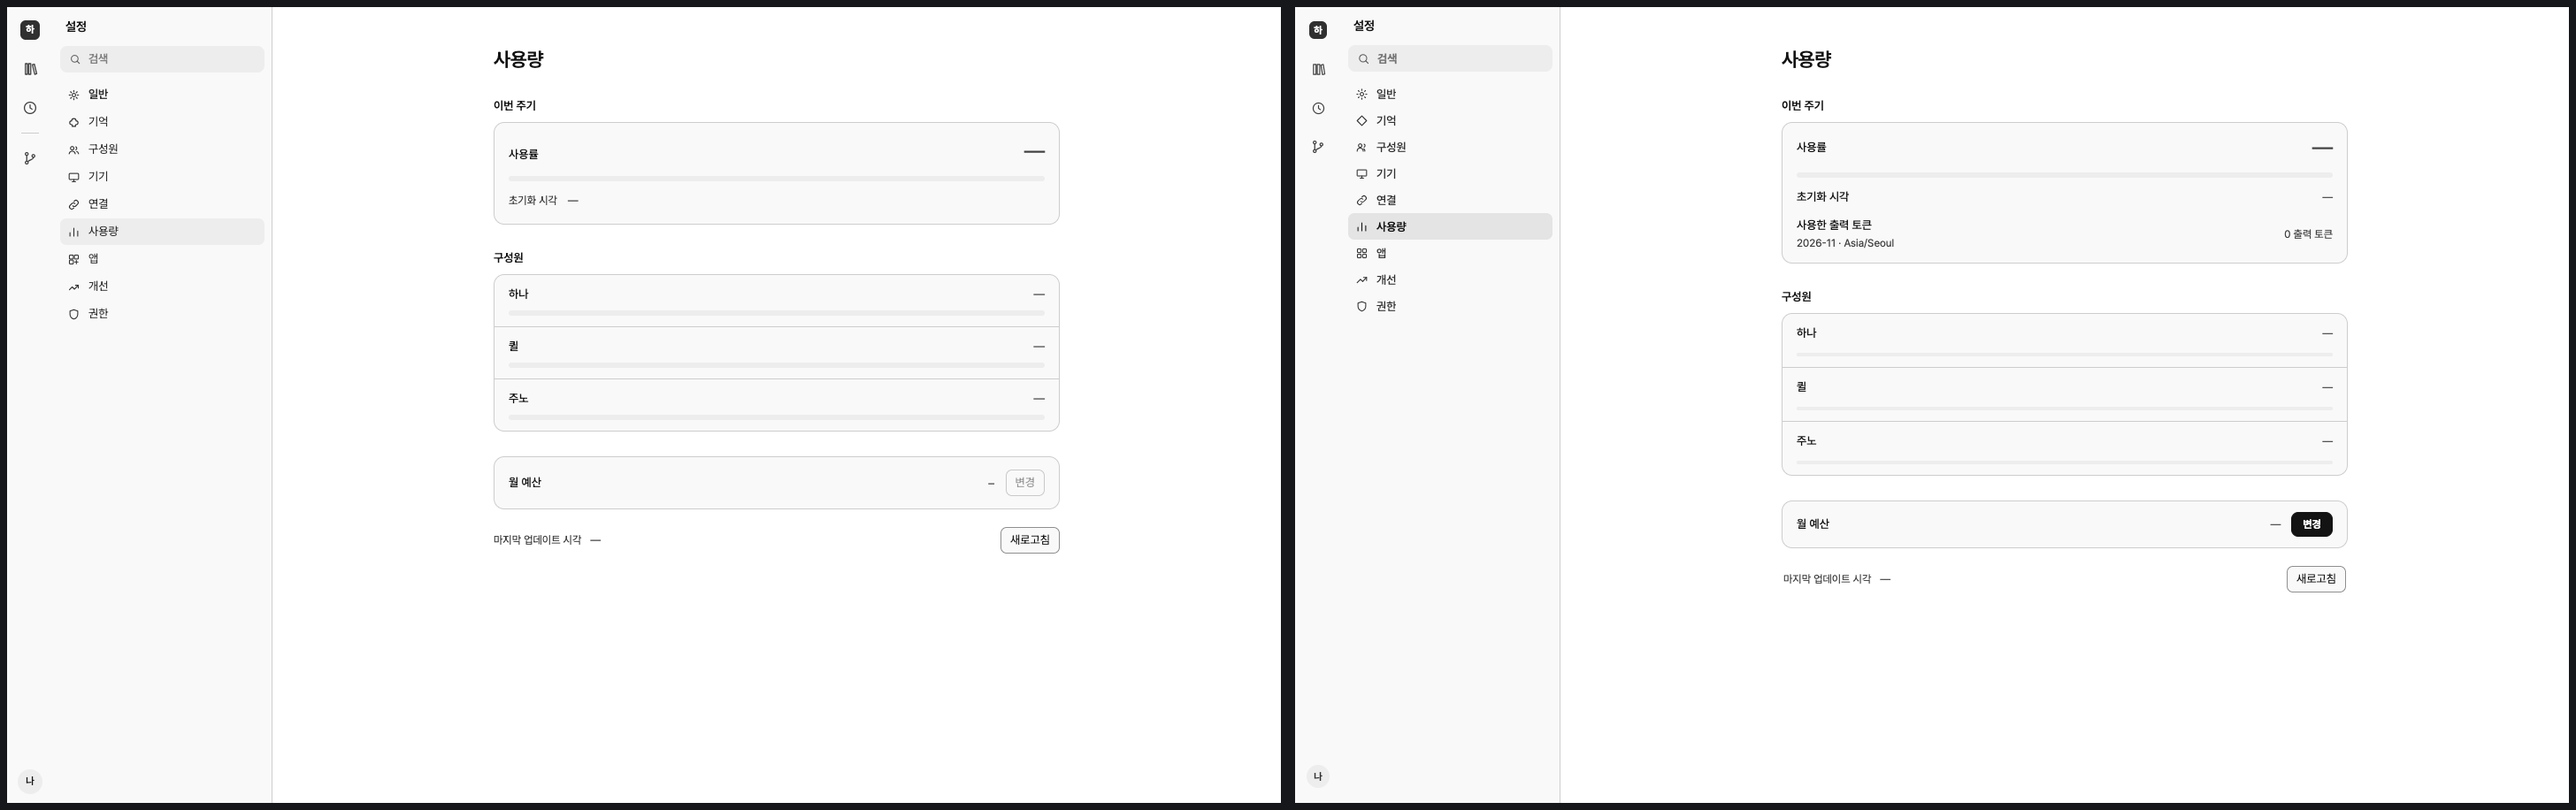
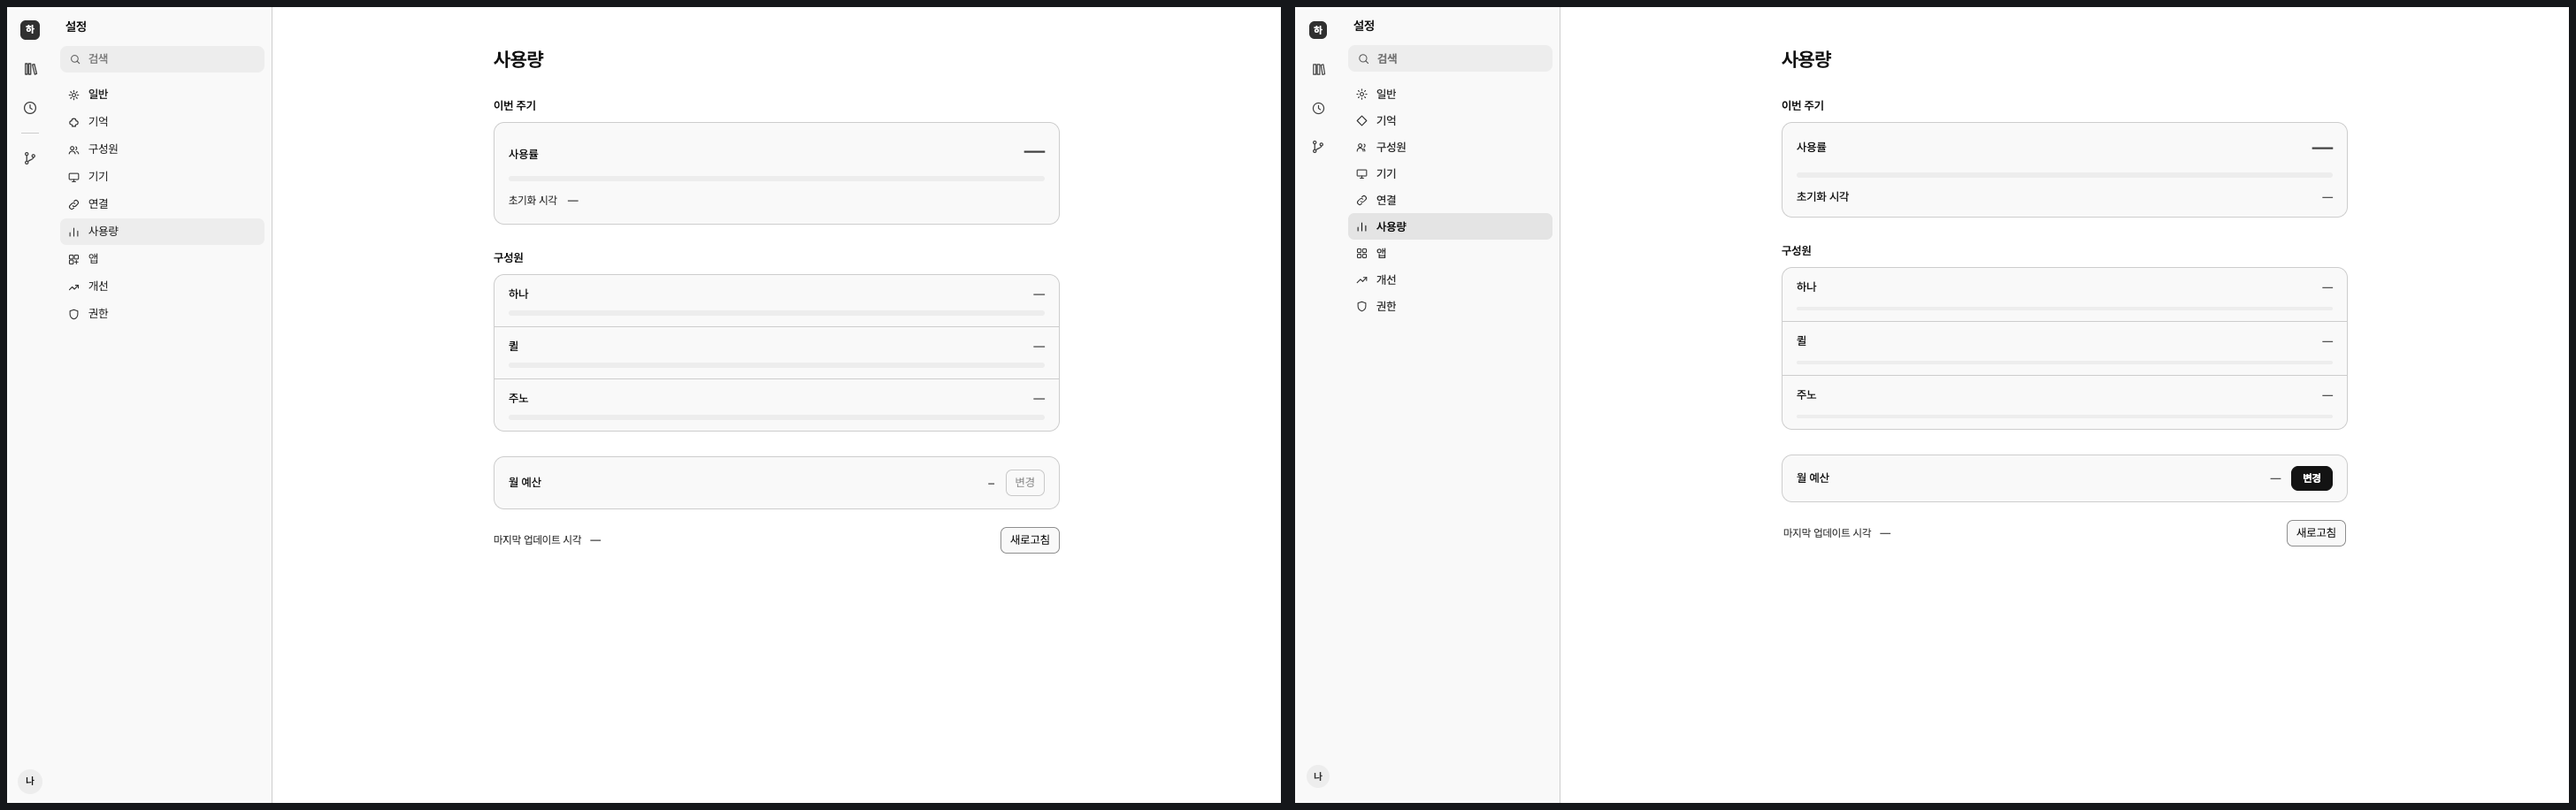
fix(ui): align monthly budget cards with visual contracts

diff --git a/src/settings-panel.ts b/src/settings-panel.ts
@@ -91,7 +91,7 @@ function settingsGeneralView(){
 }
 function settingsUsageView(){
  const v=settingsUsage&&settingsUsage.feedId===(chatView||chatRep)?.feedId?settingsUsage:null,unknown=()=>element('span',copy('ui.settings.unknown-value'),'set-side'),amount=n=>Number.isSafeInteger(n)?copy('ui.budget.tokens',{count:n.toLocaleString('ko-KR')}):copy('ui.settings.unknown-value'),status=label=>{const bar=element('div',undefined,'set-usage-bar');bar.setAttribute('role','status');bar.setAttribute('aria-label',label);return bar;};
- const cycle=element('div',undefined,'set-row set-usage-cycle'),top=settingsRow(copy('ui.budget.utilization'),'',unknown()),reset=settingsRow(copy('ui.budget.reset'),'',unknown());cycle.append(top,status(copy('settings.status.02')),reset);if(v)cycle.append(settingsRow(copy('ui.budget.recorded'),copy('ui.budget.period',v),element('span',amount(v.spent),'set-side')));
+ const cycle=element('div',undefined,'set-row set-usage-cycle'),top=settingsRow(copy('ui.budget.utilization'),'',unknown()),reset=settingsRow(copy('ui.budget.reset'),'',unknown());cycle.append(top,status(copy('settings.status.02')),reset);
  const members=[{id:null,name:settingsRepName()},...chatMembers()].map(m=>{const usage=v?.members?.find(u=>u.memberId===m.id),row=settingsRow(m.name,'',unknown());row.append(status(copy('ui.settings.member-usage',{member:m.name})));if(usage&&!usage.unknown)row.append(element('span',amount(usage.outputTokens),'set-side'));return row;});
  const change=element('button',copy('ui.budget.change'));change.type='button';change.id='monthly-budget-change';change.disabled=!v||settingsBusy;change.addEventListener('click',()=>{settingsBudgetDraft={revision:v.revision,feedId:v.feedId,limit:String(v.limit??''),timezone:v.revision===0?Intl.DateTimeFormat().resolvedOptions().timeZone:v.timezone};renderSettings();});
  const refresh=element('button',copy('ui.budget.refresh'));refresh.type='button';refresh.id='monthly-budget-refresh';refresh.disabled=settingsBusy;refresh.addEventListener('click',()=>void settingsLoad('usage'));

diff --git a/src/monthly-budget.ts b/src/monthly-budget.ts
@@ -82,7 +82,7 @@ export class MonthlyBudgetService {
   const decisions=(s?.value.decisions??[]).map(d=>({id:d.id,at:d.at,title:copy('ui.budget.title'),question:copy('ui.budget.question'),rows:[[copy('ui.budget.now'),this.#amount(d.limit)],[copy('ui.budget.after'),this.#amount(d.nextLimit)],[copy('ui.budget.paused'),s!.value.reservations.filter(r=>r.decisionId===d.id&&r.state==='waiting').map(r=>r.title).join(' · ')]],action:copy('ui.budget.raise'),state:d.state,...(d.state==='done'?{line:copy('ui.budget.changed')}:{}),budget:{revision:s!.revision,limit:d.nextLimit}}));
   return {feedId:a.feedId,cursor:a.cursor,revision:s?.revision??0,period,timezone,unit:'output-tokens' as const,limit:s?.value.limit??null,spent:a.unknown?null:a.outputTokens,knownOutputTokens:a.outputTokens,inputTokens:a.inputUnknown?null:a.inputTokens,cost:null,reserved,members:[...a.members].map(([memberId,v])=>({memberId,...v})),decisions};
  }
- #amount(n:number){return copy('ui.budget.tokens',{count:n.toLocaleString('ko-KR')});}
+ #amount(n:number){return n.toLocaleString('ko-KR');}
  async configure(input:unknown){ensure(exact(input,['commandId','expectedRevision','limit','timezone'])&&id(input.commandId)&&count(input.expectedRevision),'Exact monthly budget fields required');return this.#dispatch(input.commandId,input.expectedRevision,{type:'configure-monthly-budget',limit:input.limit,timezone:input.timezone},OWNER);}
  async decide(input:unknown){ensure(exact(input,['commandId','expectedRevision','decisionId','answer',...((input as any)?.answer==='act'?['limit']:[])])&&id(input.commandId)&&count(input.expectedRevision),'Exact monthly budget answer fields required');return this.#dispatch(input.commandId,input.expectedRevision,{type:'decide-monthly-budget',decisionId:input.decisionId,answer:input.answer,...(input.answer==='act'?{limit:input.limit}:{})},OWNER);}
  async admit(input:{missionId:string;workId:string;runId:string;amount:number}):Promise<'unmetered'|'reserved'|'waiting'|'replayed'> {

diff --git a/tests/monthly-budget-panel.test.ts b/tests/monthly-budget-panel.test.ts
@@ -15,7 +15,7 @@ function fixture(options:{lost?:boolean;reads?:((n:number)=>Promise<any>) }={}){
 const node=(app:ReturnType<typeof harness>,id:string)=>app.all().find(n=>n.id===id)!;
 test('usage reads recorded period totals and provides Change and a real Refresh read',async()=>{
  const app=fixture();await settle();runInContext('shellShow("settings");settingsOpen("usage")',app.context);await settle();
- assert.match(app.node('settings-usage-body').textContent,/2026-11.*80.*월 예산.*100/s);assert.ok(node(app,'monthly-budget-change'));const before=app.calls.filter(c=>c.path==='/assistant/usage').length;
+ const cycle=app.all().find(n=>n.className==='set-row set-usage-cycle')!;assert.equal(cycle.textContent,'사용률—초기화 시각—');assert.match(app.node('settings-usage-body').textContent,/80.*월 예산.*100/s);assert.ok(node(app,'monthly-budget-change'));const before=app.calls.filter(c=>c.path==='/assistant/usage').length;
  await node(app,'monthly-budget-refresh').fire('click');await settle();assert.equal(app.calls.filter(c=>c.path==='/assistant/usage').length,before+1);
  await node(app,'monthly-budget-change').fire('click');const field=node(app,'monthly-budget-limit');field.value='200';await field.fire('input');await node(app,'monthly-budget-form').fire('submit');await settle();const post=app.calls.find(c=>c.path==='/assistant/usage'&&c.options?.method==='POST')!;assert.equal(JSON.parse(post.options.body).limit,200);assert.equal(JSON.parse(post.options.body).expectedRevision,2);
 });

diff --git a/tests/monthly-budget.test.ts b/tests/monthly-budget.test.ts
@@ -23,7 +23,7 @@ test('overlapping admission reserves once; excess Work waits behind one owner de
  const s=(await store.load('mission'))!;assert.equal(s.value.works[1]!.execution,'budget-waiting');assert.equal(s.value.works[1]!.runtimeRun,undefined);
  const restarted=new MonthlyBudgetService(store,()=>now);assert.equal(await restarted.admit({missionId:'mission',workId:'two',runId:'another-id',amount:80}),'waiting');
  const view=await restarted.read();assert.equal(view.decisions.length,1);assert.equal(view.reserved,80);assert.equal(view.cost,null);assert.equal(view.unit,'output-tokens');
- const d=view.decisions[0]!;await restarted.decide({commandId:'later',decisionId:d.id,answer:'later',expectedRevision:view.revision});
+ const d=view.decisions[0]!;assert.deepEqual(d.rows,[['지금','100'],['늘린 뒤','160'],['멈춘 일','two']]);assert.equal(d.budget.limit,160);await restarted.decide({commandId:'later',decisionId:d.id,answer:'later',expectedRevision:view.revision});
  assert.equal((await restarted.read()).decisions[0]!.state,'later');assert.equal((await store.load('mission'))!.value.works[1]!.execution,'budget-waiting');
  const deferred=await restarted.read();await restarted.decide({commandId:'reopen',decisionId:d.id,answer:'ask',expectedRevision:deferred.revision});
  const opened=await restarted.read();assert.equal(opened.decisions[0]!.state,'open');

diff --git a/docs/acceptance/e8/README.md b/docs/acceptance/e8/README.md
@@ -4,25 +4,31 @@ Monthly limits now belong to a durable owner aggregate, separate from each Work'
 
 Fresh Work reserves the existing maximum executor/verifier/team output bound before activation. Insufficient capacity preserves it as `budget-waiting`, with no runtime activation or provider send. One period decision gathers waiting titles and projects the current and proposed output-token limits. Only a fresh explicit owner increase releases that decision's unchanged fresh Works through the normal runtime. Deferral, reopening, settings edits, a new month, process restart and reads do not start them. Replayed or unknown decisions do not invoke anything. Unknown usage stays unknown and fences admission conservatively; its original reservation survives restart. Definite rejection before activation releases only that unused reservation. The journal records the owner actor and host time and validates on portable replay.
 
-`GET/POST /assistant/usage` and the existing `POST /assistant/decisions` use feed identity, aggregate CAS, idempotent readback and the drain-aware owner store. The normal Representative read supplies the card. Settings offers an actual read on Refresh, a revision-bound Change form and period/member token totals. Unknown writes keep their original browser marker and cannot be resent from a stale read. Newer generations and database changes fence stale usage responses.
+`GET/POST /assistant/usage` and the existing `POST /assistant/decisions` use feed identity, aggregate CAS, idempotent readback and the drain-aware owner store. The normal Representative read supplies the card. Settings offers an actual read on Refresh and a revision-bound Change form. The cycle card follows the artboard with utilization and reset time only; recorded monthly totals remain in the usage API. Unknown writes keep their original browser marker and cannot be resent from a stale read. Newer generations and database changes fence stale usage responses.
 
 Design: [monthly-budget.md](../../architecture/monthly-budget.md). The B26 entries in [E3e's ledger](../E3e/residuals.md) describe the earlier missing producer; this increment supplies that producer and its owner answers. Payment and external-device decisions remain outside this increment. Main `17742d2` (including PR #115) was merged without rewriting history; its room/date fixes are retained. B26 fixtures were regenerated from the production budget service rather than retaining the old B2 overlay.
 
 ## Verification
 
-Node **24.21.0**, physical `TMPDIR=/private/tmp/e8-monthly-tests`: **298 passed, 30 environment-gated skips, one documented macOS failure** across 329 related tests. The failure is `portable inventory order is stable across English and Turkish process locales`: the case-insensitive filesystem collides on `I`/`i`, raising `directory realpath mismatch`. This is the local-only failure already named by the owner's CODEX-BRIEF. It was not suppressed or rerun as a success. Actual database checks require their existing environment and were skipped. Full tests and all screen contracts remain CI-owned.
+Initial implementation (before the visual-gate correction): Node **24.21.0**, physical `TMPDIR=/private/tmp/e8-monthly-tests`: **298 passed, 30 environment-gated skips, one documented macOS failure** across 329 related tests. The failure is `portable inventory order is stable across English and Turkish process locales`: the case-insensitive filesystem collides on `I`/`i`, raising `directory realpath mismatch`. This is the local-only failure already named by the owner's CODEX-BRIEF. It was not suppressed or rerun as a success. Actual database checks require their existing environment and were skipped. Full tests and all screen contracts remain CI-owned.
 
 The related command was `node --test` over monthly-budget, monthly-budget-panel, configured-runtime, selectable-runtime, runtime-lifetime, assistant-conversation, assistant-conversation-storage, settings-surface, conversation-cards, surface-shell, owner-work-budget, owner-budget-history, owner-budget-panel, owner-budget-history-panel, backup-lineage, portable-backup, backup-storage, host-drain, members, work-inbox and ui-contract-fixtures under `tests/*.test.ts`. After the final scoped Usage spacing adjustment, the two affected panel files passed **23/23**; the strengthened original lost-provider-response check passed **1/1**, retaining unknown usage and 128 reserved output tokens. Typecheck, copy lint (zero findings) and `git diff --check` passed. [Machine-readable counts](verification.json); [tested source content hashes](source-sha256.json).
 
 The tests cover timezone/month boundaries, simultaneous identical reservations and decisions, a durable response lost after reservation, multiple paused Works, defer/reopen/raise and restart, no resume on month/settings changes, pause CAS conflicts, actual HTTP mock runtime acceptance exactly once, known activation refusal cleanup, unknown original provider outcomes, exact member attribution, journal replay/tampering, a budget write held across host drain, out-of-order reads and database replacement. Provider HTTP in these tests is a loopback fixture, never a real provider.
 
-Headless agent-browser checked B26, B26-later and B14-usage in **both themes** at 1440×900: **176/176 required occurrences, zero contract/geometry/infrastructure failures**. Commands: `node scripts/ui-contracts/run.mjs B26 B26-later B14-usage`; only B14-usage was captured again after its scoped spacing adjustment. [Six-row report](report.json), [accessibility snapshots](snapshots), [raw checks](checks). Source fixtures reproduce with `node scripts/ui-contracts/monthly-budget-fixtures.ts`; they use the production reducer, admissions, owner deferral and read projection. The Usage artboard intentionally shows an unset budget; configured values and Change are exercised separately.
+Headless agent-browser checked B26, B26-later and B14-usage in **both themes** at 1440×900: **176/176 required occurrences, zero contract/geometry/infrastructure failures**. Commands: `node scripts/ui-contracts/run.mjs B26 B26-later B14-usage`; all three states were captured again after the blocking visual-gate correction below. [Six-row report](report.json), [accessibility snapshots](snapshots), [raw checks](checks). Source fixtures reproduce with `node scripts/ui-contracts/monthly-budget-fixtures.ts`; they use the production reducer, admissions, owner deferral and read projection. The Usage artboard intentionally shows an unset budget; configured values and Change are exercised separately.
 
 Native browser interaction also walked **Later → Ask again → Raise → Settings Change to 256 → Refresh** against the production HTTP server and an isolated in-memory fixture. Saved Work reads prove deferral kept `budget-waiting`, explicit increase made it queued, and there were zero effects with this fixture's disabled runtime. [Native deferred Work](native/deferred-work.json), [raised Work](native/raised-work.json), [saved Usage](native/usage-saved.json) and [final accessibility snapshot](native/usage-saved.snapshot.txt). This supporting browser flow used `7c3d16b` before main integration; final-source mock-runtime tests and the pairs below verify the integrated candidate. It does not establish real-database durability, live-provider billing or production accessibility certification.
 
+## Blocking visual-gate correction
+
+The follow-up above `92e512a` removes the unapproved `사용한 출력 토큰` cycle row, including its period/timezone and count. Both themes now show only `사용률` and `초기화 시각` in that card. B26's current/proposed slots use human-readable locale-formatted numbers without the raw `출력 토큰` suffix; the paused slot retains actual Work titles. The usage API still records the accounting unit and numeric owner-decision payload.
+
+The four related test files passed **48/48**. Typecheck, copy lint (zero findings) and whitespace passed. All six pairs, snapshots, visual records and contract checks were regenerated: **176/176 required occurrences, zero contract/geometry/infrastructure failures**. Both B14 snapshots were additionally checked for absence of the added label, period and timezone; both B26 snapshots contain no output-token suffix. Full-suite checks remain CI-owned and GLM findings are pending.
+
 ## Artboard / application pairs
 
-The artboard is on the left, the application on the right. Numeric token counts and the working increase/change actions replace the prototype's unknown examples; the original per-member provider quota percentages stay unknown.
+The artboard is on the left, the application on the right. Known B26 amounts fill the artboard's slots with locale-formatted numbers without unit text; unknown values and provider quota percentages stay as `—`. Increase and Change use their recorded owner commands.
 
 | State | Dark | Light |
 | --- | --- | --- |
